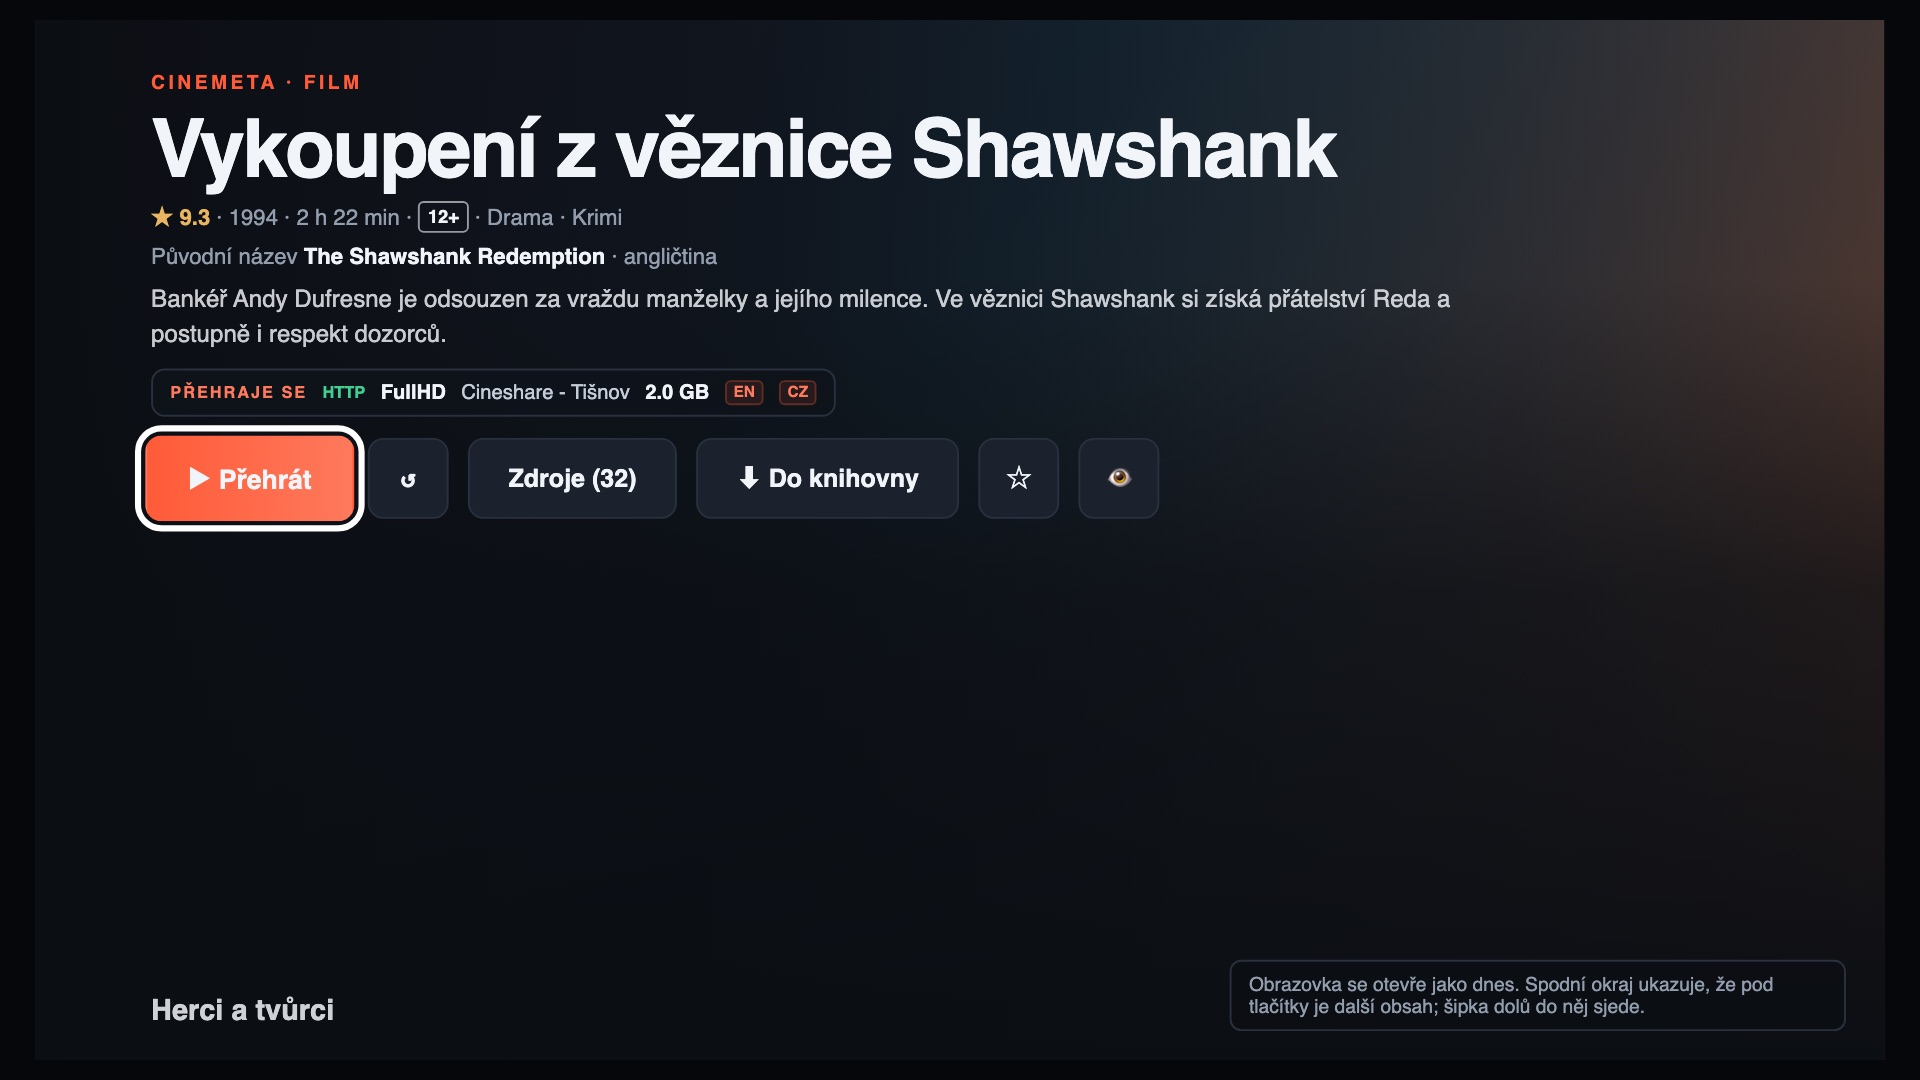
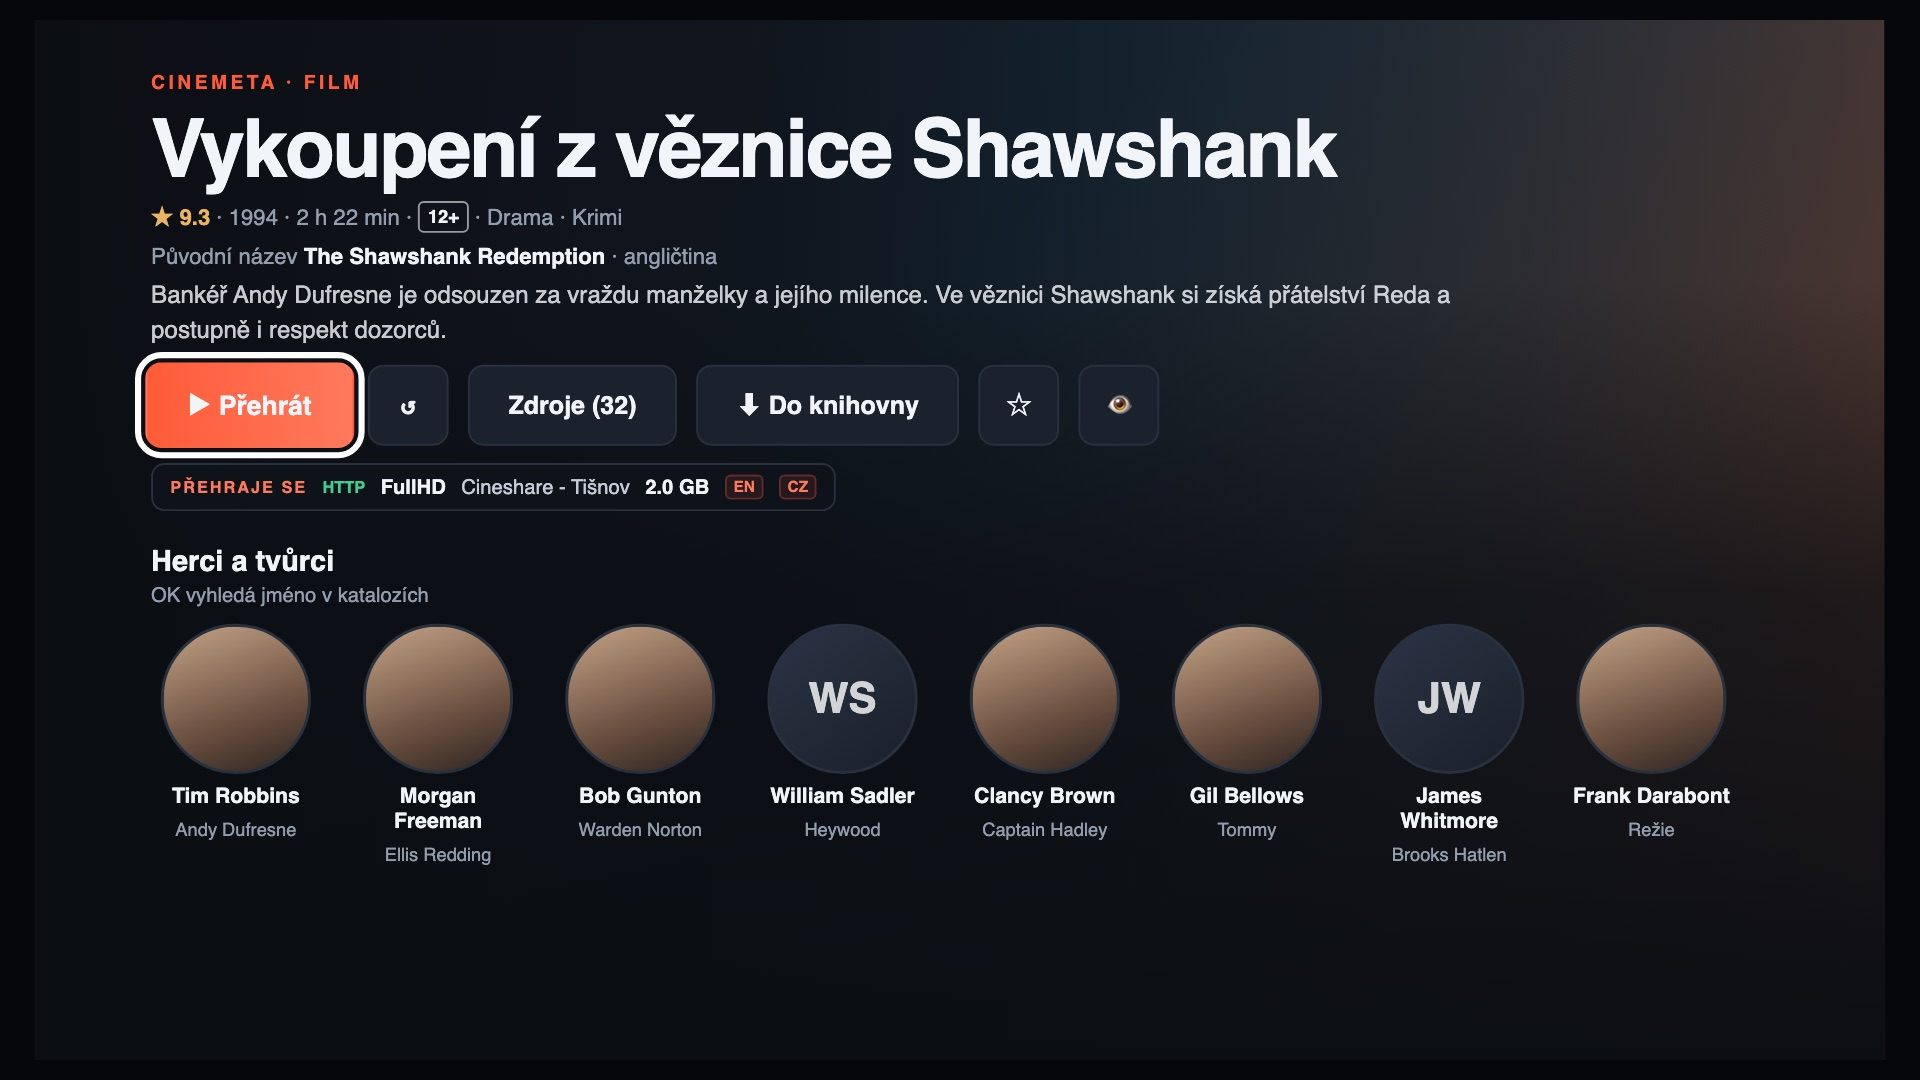
Tune the title detail study after the design review
Larger secondary text, a next-episode pill that wraps, phone captures made at
a real phone width, and TV rows that show under the actions as soon as the
detail opens, with room between a focused poster and its title.

diff --git a/docs/title-detail-prototype/detail.css b/docs/title-detail-prototype/detail.css
@@ -8,9 +8,9 @@
 
 /* Facts the hero gains: the age rating as a bordered badge and the original title. */
 .age-badge{display:inline-block;font-style:normal;font-weight:800;font-size:10px;line-height:1;padding:3px 5px;border:1px solid #f1f4f866;border-radius:4px;color:var(--text);vertical-align:1px}
-.original-line{font-size:12px;color:var(--muted)}
+.original-line{font-size:13px;color:var(--muted)}
 .original-line b{color:var(--text);font-weight:600}
-.next-episode{display:inline-flex;align-items:center;gap:8px;font-size:12px;color:var(--text);background:#ff5b3814;border:1px solid #ff5b3844;border-radius:99px;padding:5px 11px;width:max-content;max-width:100%}
+.next-episode{display:inline-block;font-size:13px;line-height:1.4;color:var(--text);background:#ff5b3814;border:1px solid #ff5b3844;border-radius:14px;padding:5px 12px;max-width:100%}
 .next-episode b{color:var(--accent2)}
 
 /* The extras: two rows under the actions, inside the same detail surface. */
@@ -18,7 +18,7 @@
 .extras-row{min-width:0}
 .extras-row h3{display:flex;align-items:baseline;gap:10px;margin:0 0 10px;font-size:14px}
 .extras-row h3 small{font-size:11px;font-weight:600;color:var(--muted)}
-.extras-crew{margin:-4px 0 10px;font-size:12px;color:var(--muted)}
+.extras-crew{margin:-4px 0 10px;font-size:13px;line-height:1.45;color:var(--muted)}
 .extras-crew button{border:0;background:none;padding:0;color:var(--text);font-weight:600}
 .extras-crew button:hover{color:var(--accent2);text-decoration:underline}
 .extras-strip{display:flex;gap:14px;overflow-x:auto;overflow-y:hidden;padding:3px 2px 8px;scroll-snap-type:x proximity;overscroll-behavior-x:contain}
@@ -26,13 +26,13 @@
 .person:hover .person-face,.person:focus-visible .person-face{box-shadow:0 0 0 2px var(--accent)}
 .person-face{width:78px;height:78px;border-radius:50%;display:grid;place-items:center;font-weight:800;font-size:22px;color:#ffffffcc;background:linear-gradient(140deg,#2b3446,#1a2029);border:1px solid var(--line);overflow:hidden}
 .person-face.photo{background:linear-gradient(160deg,#c4a487,#6d5141 60%,#2c2420)}
-.person strong{font-size:12px;line-height:1.25;max-width:96px;display:-webkit-box;-webkit-line-clamp:2;-webkit-box-orient:vertical;overflow:hidden}
-.person small{font-size:11px;color:var(--muted);line-height:1.25;max-width:96px;display:-webkit-box;-webkit-line-clamp:2;-webkit-box-orient:vertical;overflow:hidden}
+.person strong{font-size:13px;line-height:1.25;max-width:96px;display:-webkit-box;-webkit-line-clamp:2;-webkit-box-orient:vertical;overflow:hidden}
+.person small{font-size:12px;color:#aab4c2;line-height:1.25;max-width:96px;display:-webkit-box;-webkit-line-clamp:2;-webkit-box-orient:vertical;overflow:hidden}
 .related{flex:0 0 132px;width:132px;min-height:0;display:grid;grid-template-columns:100%;justify-items:stretch;align-content:start;gap:6px;border:0;background:none;padding:0;color:inherit;text-align:left;scroll-snap-align:start}
 .related-art{width:100%;aspect-ratio:2/3;border-radius:9px;border:1px solid var(--line);display:flex;align-items:flex-end;padding:9px;font:700 13px Georgia,serif;letter-spacing:.5px;text-transform:uppercase;text-shadow:0 2px 8px #0008;line-height:1.1}
 .related:hover .related-art,.related:focus-visible .related-art{box-shadow:0 0 0 2px var(--accent)}
-.related strong{font-size:12px;white-space:nowrap;overflow:hidden;text-overflow:ellipsis}
-.related small{font-size:11px;color:var(--muted)}
+.related strong{font-size:13px;white-space:nowrap;overflow:hidden;text-overflow:ellipsis}
+.related small{font-size:12px;color:#aab4c2}
 .related .in-library{color:var(--green)}
 .extras-skeleton .person-face,.extras-skeleton .related-art{background:linear-gradient(90deg,#1b222d,#232b38,#1b222d);background-size:200% 100%;animation:proto-shimmer 1.4s infinite linear;border-color:transparent}
 .extras-skeleton strong,.extras-skeleton small{display:block;height:9px;width:70px;border-radius:5px;background:#1b222d}
@@ -59,8 +59,18 @@
 .proto-source{position:relative;z-index:1;display:flex;flex-wrap:wrap;align-items:center;gap:6px 10px;width:max-content;max-width:min(760px,100%);padding:8px 12px;border:1px solid var(--line);border-radius:10px;background:#0f131acc}
 .proto-source>*{opacity:1}
 .proto-source strong{color:var(--text)}
-.proto-source small{color:#c3ccd8}
+.proto-source small{color:#c3ccd8;font-size:12px}
 .proto-source b{color:var(--text)}
 .proto-source-label{font-size:10px;font-weight:800;letter-spacing:1px;text-transform:uppercase;color:var(--accent2)}
-.proto-file{flex-basis:100%;font:500 11px ui-monospace,SFMono-Regular,Menlo,monospace;color:var(--muted);white-space:nowrap;overflow:hidden;text-overflow:ellipsis}
+.proto-file{flex-basis:100%;font:500 12px ui-monospace,SFMono-Regular,Menlo,monospace;color:var(--muted);white-space:nowrap;overflow:hidden;text-overflow:ellipsis}
 
+
+/* The phone keeps the page inside the screen: only the two strips scroll sideways. */
+@media(max-width:700px){
+  .proto-main{max-width:100%;overflow-x:hidden}
+  .proto-frame,.browse-scroll,.library-title-detail{min-width:0;max-width:100%}
+  .library-title-detail .hero,.library-detail-hero .detail-copy{min-width:0;max-width:100%}
+  .proto-source{width:auto;max-width:100%}
+  .library-detail-progress{max-width:100%}
+  .extras-crew{white-space:normal}
+}

diff --git a/docs/title-detail-prototype/tv.js b/docs/title-detail-prototype/tv.js
@@ -9,27 +9,23 @@ const heroTop = (focus) => `<div class="eyebrow">CINEMETA · FILM</div><h1>Vykou
   <div class="meta"><span class="star">★ 9.3</span> · 1994 · 2 h 22 min · <span class="age">12+</span> · Drama · Krimi</div>
   <div class="meta">Původní název <b style="color:#f1f4f8">The Shawshank Redemption</b> · angličtina</div>
   <div class="desc">Bankéř Andy Dufresne je odsouzen za vraždu manželky a jejího milence. Ve věznici Shawshank si získá přátelství Reda a postupně i respekt dozorců.</div>
-  <div class="source"><span class="label">PŘEHRAJE SE</span><i>HTTP</i><b>FullHD</b><span>Cineshare - Tišnov</span><b>2.0 GB</b><em>EN</em><em>CZ</em></div>
-  <div class="actions"><div class="btn primary ${focus === "play" ? "focus" : ""}">▶ Přehrát</div><div class="btn icon">↺</div><div class="btn">Zdroje (32)</div><div class="btn">⬇ Do knihovny</div><div class="btn icon">☆</div><div class="btn icon">👁</div></div>`;
+  <div class="actions"><div class="btn primary ${focus === "play" ? "focus" : ""}">▶ Přehrát</div><div class="btn icon">↺</div><div class="btn">Zdroje (32)</div><div class="btn">⬇ Do knihovny</div><div class="btn icon">☆</div><div class="btn icon">👁</div></div>
+  <div class="source"><span class="label">PŘEHRAJE SE</span><i>HTTP</i><b>FullHD</b><span>Cineshare - Tišnov</span><b>2.0 GB</b><em>EN</em><em>CZ</em></div>`;
 const people = (focusIndex, list = PEOPLE) => `<div class="row"><h2>Herci a tvůrci</h2><p class="hint">OK vyhledá jméno v katalozích</p><div class="strip">${list.map(([name, role, photo], index) => `<div class="person ${index === focusIndex ? "focus" : ""}"><div class="face ${photo ? "photo" : ""}">${photo ? "" : initials(name)}</div><strong>${name}</strong><small>${role}</small></div>`).join("")}</div></div>`;
 const related = (focusIndex) => `<div class="row"><h2>Podobné tituly</h2><div class="strip">${RELATED.map(([name, year, owned], index) => `<div class="poster ${index === focusIndex ? "focus" : ""}"><div class="art" style="background:linear-gradient(160deg,${ART[index % ART.length]})">${name}</div><strong>${name}</strong><small>${year}${owned ? ` · <span class="lib">V knihovně</span>` : ""}</small></div>`).join("")}</div></div>`;
 
 const views = {
-  top: { label: "Film: úvod", html: () => `<div class="content">${heroTop("play")}</div><div class="peek"><div class="row" style="margin:0"><h2>Herci a tvůrci</h2></div></div>
-    <div class="note">Obrazovka se otevře jako dnes. Spodní okraj ukazuje, že pod tlačítky je další obsah; šipka dolů do něj sjede.</div>` },
-  cast: { label: "Film: herci", html: () => `<div class="content" style="transform:translateY(-360px)">${heroTop()}${people(1)}${related(-1)}</div>
-    <div class="note">Fokus v řádku herců: obsah vyjede nahoru, hero zůstane nad ním. OK otevře Hledat s předvyplněným jménem.</div>` },
-  related: { label: "Film: podobné", html: () => `<div class="content" style="transform:translateY(-640px)">${heroTop()}${people(-1)}${related(2)}</div>
-    <div class="note">OK otevře detail vybraného titulu; Zpět vrací na tento detail se stejným fokusem.</div>` },
+  top: { label: "Film: úvod", html: () => `<div class="content">${heroTop("play")}${people(-1)}</div>` },
+  cast: { label: "Film: herci", html: () => `<div class="content" style="transform:translateY(-250px)">${heroTop()}${people(1)}${related(-1)}</div>` },
+  related: { label: "Film: podobné", html: () => `<div class="content" style="transform:translateY(-470px)">${heroTop()}${people(-1)}${related(2)}</div>` },
   series: { label: "Seriál: pod epizodami", html: () => `<div class="content" style="transform:translateY(-420px)"><div class="eyebrow">CINEMETA · SERIÁL</div><h1>Perníkový táta</h1>
     <div class="meta"><span class="star">★ 9.5</span> · 2008–2013 · <span class="age">15+</span> · Krimi · Drama</div><div class="next">Další díl <b>S06E03 „Nový začátek“</b> · čt 7. 11.</div>
     <div class="desc">Středoškolský učitel chemie se po zjištění, že má rakovinu plic, spojí s bývalým studentem a začne vařit pervitin.</div>
-    <div class="source"><span class="label">PŘEHRAJE SE</span><i>HTTP</i><b>FullHD</b><span>Cineshare - Tišnov</span><b>1.4 GB</b><em>EN</em><em>CZ</em></div>
     <div class="actions"><div class="btn primary">▶ Pokračovat S01E04</div><div class="btn icon">↺</div><div class="btn">Zdroje (18)</div><div class="btn">⬇ Do knihovny</div><div class="btn">Stáhnout sérii</div><div class="btn icon">☆</div></div>
+    <div class="source"><span class="label">PŘEHRAJE SE</span><i>HTTP</i><b>FullHD</b><span>Cineshare - Tišnov</span><b>1.4 GB</b><em>EN</em><em>CZ</em></div>
     <div class="seasons"><div class="chip on">1. série</div><div class="chip">2. série</div><div class="chip">3. série</div></div>
     <div class="episodes">${[1, 2, 3, 4].map((n) => `<div class="episode"><b>S01E0${n}</b><small>Epizoda ${n}</small></div>`).join("")}</div>
-    ${people(0, SERIES_PEOPLE)}</div>
-    <div class="note">U seriálu jsou řádky až pod epizodami: šipka dolů z epizod vede do herců.</div>` },
+    ${people(0, SERIES_PEOPLE)}</div>` },
 };
 
 function fit() {

diff --git a/docs/title-detail-prototype/tv.css b/docs/title-detail-prototype/tv.css
@@ -13,12 +13,12 @@ h1{margin:14px 0 6px;font-size:84px;line-height:1.02;letter-spacing:-2.4px;font-
 .age{display:inline-block;font-weight:800;font-size:19px;line-height:1;padding:5px 8px;border:2px solid #f1f4f899;border-radius:6px;color:var(--text);vertical-align:2px}
 .next{display:inline-flex;gap:12px;font-size:22px;border:2px solid #ff5b3866;background:#ff5b381f;border-radius:99px;padding:8px 20px;margin:6px 0 8px}
 .next b{color:var(--accent2)}
-.desc{max-width:1400px;font-size:25px;line-height:36px;color:#f1f4f8d1;margin:14px 0 24px;display:-webkit-box;-webkit-line-clamp:3;-webkit-box-orient:vertical;overflow:hidden}
+.desc{max-width:1400px;font-size:25px;line-height:36px;color:#f1f4f8d1;margin:10px 0 18px;-webkit-line-clamp:2;display:-webkit-box;-webkit-line-clamp:3;-webkit-box-orient:vertical;overflow:hidden}
 .actions{display:flex;gap:20px}
 .btn{height:84px;padding:0 40px;border-radius:16px;display:flex;align-items:center;gap:14px;font-size:26px;font-weight:700;background:var(--panel2);border:2px solid var(--line)}
 .btn.primary{background:linear-gradient(90deg,var(--accent),var(--accent2));border-color:transparent}
 .focus{outline:6px solid #fff;outline-offset:4px;transform:scale(1.06)}
-.row{margin-top:44px}
+.row{margin-top:34px}
 .row h2{font-size:30px;margin:0 0 6px;font-weight:800}
 .row .hint{font-size:21px;color:var(--muted);margin:0 0 18px}
 .strip{display:flex;gap:34px;align-items:flex-start}
@@ -27,9 +27,10 @@ h1{margin:14px 0 6px;font-size:84px;line-height:1.02;letter-spacing:-2.4px;font-
 .face.photo{background:linear-gradient(160deg,#c4a487,#6d5141 60%,#2c2420)}
 .person.focus{outline:none;transform:none}.person.focus .face{border-color:#fff;box-shadow:0 0 0 6px #fff;transform:scale(1.08)}
 .person strong{font-size:22px;line-height:1.2}.person small{font-size:19px;color:var(--muted)}
-.poster{width:220px;flex:none;display:grid;gap:10px}
+.poster{width:220px;flex:none;display:grid;gap:22px}
 .poster .art{height:330px;overflow:hidden;overflow-wrap:anywhere;border-radius:16px;border:2px solid var(--line);display:flex;align-items:flex-end;padding:16px;font:700 24px Georgia,serif;text-transform:uppercase;line-height:1.1;text-shadow:0 2px 8px #0008}
-.poster.focus{outline:none;transform:none}.poster.focus .art{box-shadow:0 0 0 6px #fff;transform:scale(1.06)}
+.poster.focus{outline:none;transform:none}.poster.focus .art{box-shadow:0 0 0 6px #fff;transform:scale(1.05);transform-origin:center top}
+.poster strong{margin-top:6px}
 .poster strong{font-size:22px}.poster small{font-size:19px;color:var(--muted)}.poster .lib{color:var(--green)}
 .episodes{display:flex;gap:24px;margin-top:40px}
 .episode{width:360px;height:202px;border-radius:16px;border:2px solid var(--line);background:linear-gradient(160deg,#28323f,#141922);padding:18px;display:flex;flex-direction:column;justify-content:flex-end;font-size:22px}
@@ -43,7 +44,7 @@ h1{margin:14px 0 6px;font-size:84px;line-height:1.02;letter-spacing:-2.4px;font-
 
 .btn.icon{width:84px;padding:0;justify-content:center}
 /* The row that will play, as on the web: label, kind, quality, provider, size, languages. */
-.source{display:flex;align-items:center;gap:16px;font-size:21px;color:#c3ccd8;margin:-6px 0 22px;padding:10px 18px;border:2px solid var(--line);border-radius:14px;background:#0f131acc;width:max-content}
+.source{display:flex;align-items:center;gap:16px;font-size:21px;color:#c3ccd8;margin:18px 0 0;padding:10px 18px;border:2px solid var(--line);border-radius:14px;background:#0f131acc;width:max-content}
 .source .label{font-size:17px;font-weight:800;letter-spacing:2px;color:var(--accent2)}
 .source i{font-style:normal;font-size:17px;font-weight:800;color:var(--green)}
 .source b{color:var(--text)}
